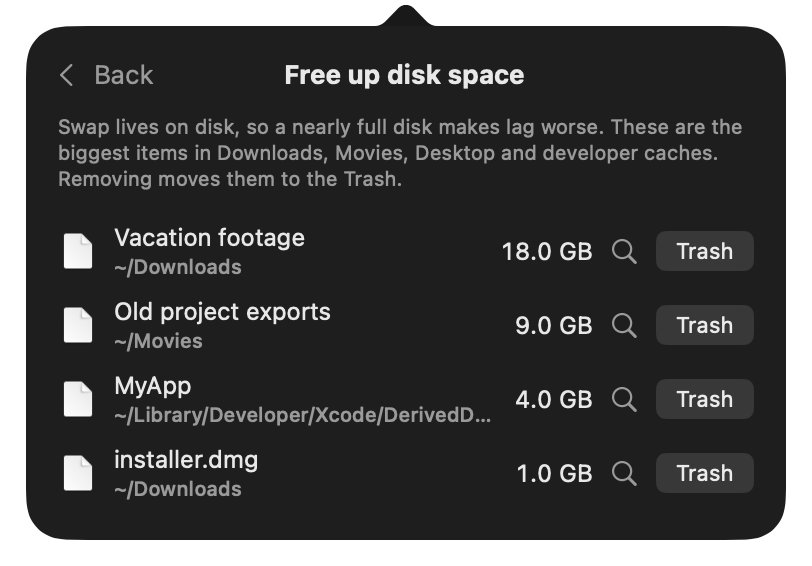
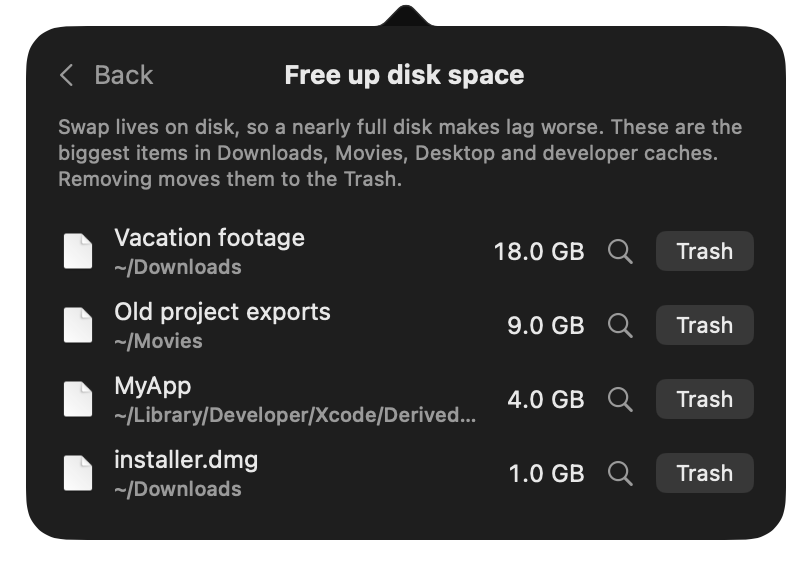
README: Tips and Disk screenshots, captions

diff --git a/README.md b/README.md
@@ -13,6 +13,8 @@
 <img src="docs/main.png" width="300" alt="The panel: memory pressure, a tip, and the apps using the most memory">
 <img src="docs/history.png" width="300" alt="History: memory over the day with lag periods and what happened">
 
+<sub>Left: what's using your memory. Right: when your Mac lagged, and why.</sub>
+
 </div>
 
 ## Why
@@ -75,9 +77,15 @@ cd MacMemoryMonitor
 
 Press **⌥⌘M** anywhere to open the panel.
 
-<p align="center"><img src="docs/settings.png" width="300" alt="Settings: options appear under each switch"></p>
+<p align="center">
+  <img src="docs/tips.png" width="300" alt="Tips: what to do right now, with one-click fixes">
+  <img src="docs/disk.png" width="300" alt="Disk: the biggest files, moved to the Trash in one click">
+</p>
+<p align="center"><sub>Left: tips for what to do right now. Right: find big files and free up disk space.</sub></p>
 
 ## Settings
+
+<p align="center"><img src="docs/settings.png" width="300" alt="Settings: options appear under each switch"></p>
 
 Everything automatic can be switched off or tuned in **Settings** (gear icon): how long before sessions pause, when to warn you, what the menu bar shows, how sensitive it is, which tips you see, and more. **Reset to defaults** undoes it all.
 
